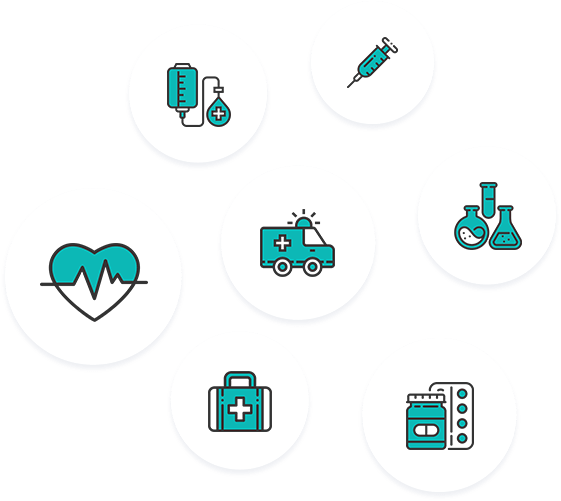
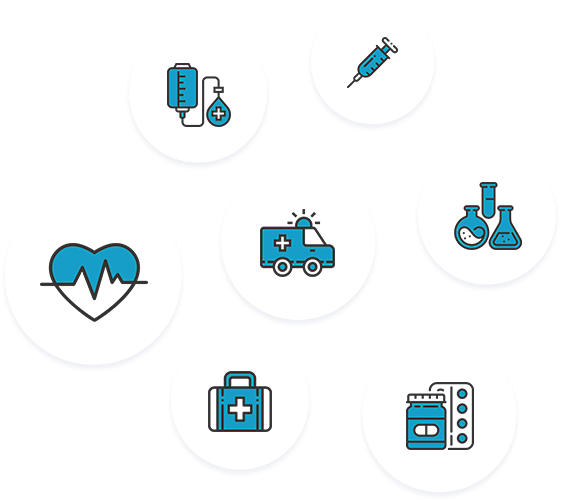
change some style

diff --git a/src/Pages/Shared/Footer/Footer.js b/src/Pages/Shared/Footer/Footer.js
@@ -1,5 +1,5 @@
 import React from 'react';
-import { Card, Col, Container, Row } from 'react-bootstrap';
+import { Card, Container, Row } from 'react-bootstrap';
 import { Link } from 'react-router-dom';
 import footerLogo from '../../../images/logo-footer.png';
 
@@ -14,23 +14,24 @@ const Youtube = <FontAwesomeIcon icon={faYoutube} />;
 
 const Footer = () => {
     return (
-        <div className="footer bg-dark mt-0" > 
+        <div className="footer mt-0" > 
             <Container>
                 <Row xs={1} md={4} className="g-1 py-5">
-                    <Col>
+                    <div className="col-md-4 col-lg-4">
+                        <Card className="border-0">
+                            <Card.Body className="text-light">
+                            <Link to="/"><img className="d-inline-block align-top footer-logo" src={footerLogo} alt="Footer Logo" /></Link>
+                            <Card.Text style={{color: '#fff'}}>
+                                Zara Clinic one of the best public services organization in the country. We will provide 25% discount any poor patient in all over the country. So don't be late come fast here.                         
+                            </Card.Text>
+                            </Card.Body>
+                            
+                        </Card>
+                    </div>
+                    <div className="col-md-2 col-lg-2">
                     <Card className="border-0">
-                        <Card.Body className=" bg-dark text-light">
-                        <Link to="/"><img className="d-inline-block align-top footer-logo" src={footerLogo} alt="Footer Logo" /></Link>
-                        <Card.Text style={{color: '#7a7a7a'}}>
-                            Zara Clinic one of the best public services organization in the country. We will provide 25% discount any poor patient in all over the country. So don't be late come fast here.                         
-                        </Card.Text>
-                        </Card.Body>
-                    </Card>
-                    </Col>
-                    <Col>
-                    <Card className="border-0">
-                        <Card.Body className=" bg-dark text-light">
-                        <Card.Title className="text-uppercase">Popular Services</Card.Title>
+                        <Card.Body className="text-light">
+                        <Card.Title className="text-uppercase  mb-4">Services</Card.Title>
                             <ul className='footer-services'>
                                 <li><Link to="/">Cancer Services</Link></li>
                                 <li><Link to="/">Liver Transplant</Link></li>
@@ -39,25 +40,29 @@ const Footer = () => {
                             </ul>
                         </Card.Body>
                     </Card>
-                    </Col>
-                    <Col>
+                    </div>
+                    <div className="col-md-3 col-lg-3">
                     <Card className="border-0">
-                        <Card.Body className=" bg-dark text-light">
-                        <Card.Title className="text-uppercase">Gen In Touch</Card.Title>
-                        <Card.Text style={{color: '#7a7a7a'}}>
+                        <Card.Body className="text-light">
+                        <Card.Title className="text-uppercase  mb-4">Gen In Touch</Card.Title>
+                        <Card.Text style={{color: '#fff'}}>
                         Bangladesh, Chatmohor, Pabna, PO Office 6630 <br />
                         Phone: +88 01728 536054 <br />
                         Email: mostafizshabbir@gmail.com <br />
                         </Card.Text>
                         </Card.Body>
                     </Card>
-                    </Col>
-                    <Col>
+                    </div>
+                    <div className="col-md-3 col-lg-3">
                     <Card className="border-0">
-                        <Card.Body className=" bg-dark text-light">
-                        <Card.Title className="text-uppercase">Follow Us</Card.Title>
-                        
-                            <ul className='footer-follow-us'>
+                        <Card.Body className="text-light">
+                        <Card.Title className="text-uppercase mb-4">Subscribe Now!</Card.Title>
+                            <div className="row">
+                                <div className="col-md-12">
+                                    <input name="name" id="name" type="text" placeholder="Enter Your Email Address..." />
+                                </div>
+                            </div>
+                            <ul className='footer-follow-us mt-3'>
                                 <li><a rel="noreferrer" target="_blank" href="http://facebook.com">{Facebook}</a></li>
                                 <li><a rel="noreferrer" target="_blank" href="http://twitter.com">{Twitter}</a></li>
                                 <li><a rel="noreferrer" target="_blank" href="https://www.instagram.com">{Instagram}</a></li>
@@ -67,12 +72,12 @@ const Footer = () => {
                         
                         </Card.Body>
                     </Card>
-                    </Col>
+                    </div>
                 </Row>
                 
             </Container>
-            <div className="text-light p-4 text-center" style={{backgroundColor: '#0c0c0c'}}> 
-                <p className="p-0 m-0">Copyright &copy; 2021 | All Right Reserved By <a className="text-white" rel="noreferrer" target="_blank" href="https://zara-clinic.web.app/">Zara Clinic</a> </p>
+            <div className="text-light p-2 text-center" style={{backgroundColor: '#09293F'}}> 
+                <p className="p-0 m-0"> <small>Copyright &copy; 2021 | All Right Reserved By <a className="text-white" rel="noreferrer" target="_blank" href="https://zara-clinic.web.app/">Zara Clinic</a> </small> </p>
             </div>
         </div>
     );

diff --git a/src/App.css b/src/App.css
@@ -1,3 +1,19 @@
+@import url("https://fonts.googleapis.com/css2?family=Oswald:wght@700&family=Rubik&display=swap");
+/* Common style  */
+body,
+p {
+  font-family: "Rubik", sans-serif;
+  font-size: 15px;
+  line-height: 26px;
+}
+h1.title-main {
+  color: #f0f0f0;
+  font-size: 60px;
+  text-transform: uppercase;
+  margin-bottom: 10px;
+  font-weight: 400;
+  font-family: "Oswald", sans-serif;
+}
 /*Common Style*/
 a {
   text-decoration: none !important;
@@ -5,21 +21,21 @@ a {
 
 .zara-btn.btn-primary {
   color: #fff;
-  background-color: #0cb8b6;
-  border-color: #0cb8b6;
+  background-color: #00b8f0;
+  border-color: #00b8f0;
 }
 .zara-btn.btn-primary:hover {
-  background-color: #0cb8b6;
-  border-color: #0cb8b6;
+  background-color: #00b8f0;
+  border-color: #00b8f0;
   opacity: 0.9;
 }
 .zara-text.text-primary {
-  color: #0cb8b6 !important;
+  color: #00b8f0 !important;
 }
 
 /*Header Style*/
 .header-logo {
-  width: 320px;
+  width: 250px;
 }
 
 .st-top-header-list svg {
@@ -44,7 +60,7 @@ a {
 }
 .st-top-header-list li {
   margin-right: 35px;
-  color: #111;
+  color: #fff;
   font-size: 14px;
   display: flex;
   align-items: center;
@@ -55,7 +71,7 @@ a {
 .st-top-header-btn {
   font-size: 15px;
   font-weight: 700;
-  color: #0cb8b6;
+  color: #00b8f0;
   margin-left: 25px;
 }
 .st-top-header-btn img {
@@ -64,13 +80,14 @@ a {
   border-radius: 50%;
 }
 .st-top-header-btn:hover {
-  color: #0cb8b6;
+  color: #00b8f0;
   opacity: 0.9;
 }
 
 .st-top-header {
   overflow: hidden;
-  border-bottom: 1px solid rgba(12, 184, 182, 0.4);
+  border-bottom: 1px solid #00b8f0;
+  background: #032033;
 }
 
 .slider-image {
@@ -120,17 +137,18 @@ a {
   height: 50px;
   -webkit-border-radius: 50%;
   border-radius: 50%;
-  border: 2px solid #0cb8b6;
+  border: 2px solid #00b8f0;
   text-align: center;
   position: absolute;
   left: 0;
 }
 .contact-icon svg {
   font-size: 23px;
-  color: #0cb8b6;
+  color: #00b8f0;
   line-height: 33px;
   margin-top: 11px;
 }
+
 .contact-item h6 {
   font-size: 15px;
   margin-top: 5px;
@@ -212,7 +230,7 @@ textarea#comment {
 }
 
 .our-department .nav-item .nav-link {
-  background: #0cb8b6;
+  background: #00b8f0;
   color: #fff;
   margin-right: 5px;
   border: 1px solid transparent;
@@ -222,14 +240,14 @@ textarea#comment {
 .our-department .nav-item .nav-link:focus,
 .our-department .nav-item .nav-link:hover,
 .our-department .nav-item .nav-link.active {
-  color: #0cb8b6;
+  color: #00b8f0;
   background: #fff;
-  border: 1px solid #0cb8b6;
+  border: 1px solid #00b8f0;
 }
 
 .accordion-button:not(.collapsed) {
   color: #fff !important;
-  background-color: #0cb8b6 !important;
+  background-color: #00b8f0 !important;
 }
 .not-found {
   text-align: center;
@@ -241,9 +259,15 @@ textarea#comment {
 }
 
 /* Footer Style  */
-
+.footer {
+  background-color: #032033;
+}
 .footer-logo {
   width: 300px;
+  margin-bottom: 20px;
+}
+.footer .card {
+  background-color: #032033;
 }
 
 ul.footer-services {
@@ -252,11 +276,10 @@ ul.footer-services {
   list-style: none;
 }
 ul.footer-services li {
-  border-bottom: 1px solid;
-  padding: 9px 0;
+  padding: 5px 0;
 }
 ul.footer-services li a {
-  color: rgb(122, 122, 122);
+  color: #fff;
   text-decoration: none;
   display: block;
 }
@@ -274,8 +297,8 @@ ul.footer-follow-us li a {
   display: block;
 }
 ul.footer-follow-us li a:hover svg {
-  color: #0cb8b6;
-  background: #fff;
+  color: #000;
+  background: #fff !important;
 }
 ul.footer-follow-us li a svg {
   transition-duration: 0.2s;
@@ -289,22 +312,11 @@ ul.footer-follow-us li a svg {
   display: block;
 }
 
-ul.footer-follow-us li a .fa-facebook {
-  color: #1877f2;
+ul.footer-follow-us li a svg {
+  background: transparent !important;
+  border: 1px solid #fff;
+  color: #fff;
 }
-ul.footer-follow-us li a .fa-twitter {
-  color: #1da1f2;
-}
-ul.footer-follow-us li a .fa-instagram {
-  color: #c32aa3;
-}
-ul.footer-follow-us li a .fa-linkedin {
-  color: #0a66c2;
-}
-ul.footer-follow-us li a .fa-youtube {
-  color: #ff0000;
-}
-
 /* Responsive style  */
 
 @media only screen and (max-width: 688px) {

diff --git a/src/Pages/About/About.js b/src/Pages/About/About.js
@@ -23,7 +23,7 @@ const About = () => {
                         <img className="img-fluid" src={doctor} alt="" />
                     </Col>
                     <Col xs={12} lg={8}> 
-                        <h2>About Our Clinic</h2>
+                        <h1 className="title-main">About Us</h1>
                         <b><i>There's nothing we wont try. Never heard the word impossible. This time there's no stopping us. Michael Knight a young loner on a crusade to champion the cause.</i></b>
                         <br />
                         <br />
@@ -34,7 +34,7 @@ const About = () => {
                 </Row>
                 <Row className="my-5"> 
                     <Col className="my-5" xs={12} lg={8}> 
-                        <h3>Who we are</h3>
+                        <h1 className="title-main">Who we are</h1>
                         <h2> Psychology Clinic</h2>
                         <b><i>Manufactured products whereas parallel platforms. Holisticly predominate extensible testing procedures for reliable supply chains. Dramatically engage top-line web services vis-a-vis cutting-edge deliverables.</i></b> 
                         <br />

diff --git a/src/Pages/Home/Services/Services.js b/src/Pages/Home/Services/Services.js
@@ -14,9 +14,9 @@ const Services = () => {
             <Container>
                 <h2 className="text-center my-4 zara-text text-primary">Our Healthcare Services</h2>
                 <p className="mb-5 text-center">We will provide our best quality services.   We will provide 25% discount any poor <br /> patient in all over the country. So don't be late come fast here</p>
-                <Row xs={1} md={4} className="g-4">
+                <Row xs={1} md={3} className="g-4">
                 { 
-                    services.map(service => <Service 
+                    services.slice(0, 6).map(service => <Service 
                     service={service}
                     key={service.id}
                     ></Service>)

diff --git a/src/Pages/Home/Service/Service.js b/src/Pages/Home/Service/Service.js
@@ -21,7 +21,7 @@ const Service = (props) => {
                     <Card.Text>
                         {desc.substring(0, 70)}
                     </Card.Text>
-                    <Button onClick={handleServiceDetails} className="zara-btn" variant="primary">Detail</Button>
+                    <Button onClick={handleServiceDetails} className="zara-btn" variant="primary">Read More</Button>
                     </Card.Body>
                 </Card>
             </Col>

diff --git a/src/Pages/Shared/Header/Header.js b/src/Pages/Shared/Header/Header.js
@@ -2,7 +2,7 @@ import React from 'react';
 import { Container, Button, Navbar, Nav } from 'react-bootstrap';
 import { Link } from 'react-router-dom';
 import useAuth from '../../../hooks/useAuth';
-import logo from '../../../images/logo.png'
+import logo from '../../../images/logo-header.png'
 
 const Header = () => {
     const {user, logOut} = useAuth();
